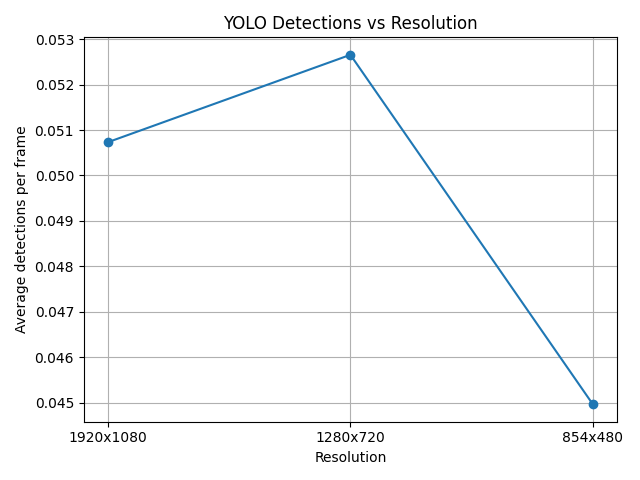
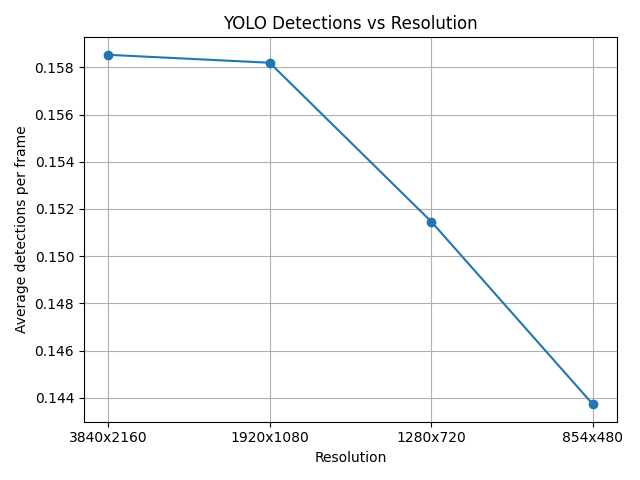
resolution_analysis_outputs

diff --git a/yolov5_object_detection_small/main.py b/yolov5_object_detection_small/main.py
@@ -29,12 +29,13 @@ def test_resolutions(video_path: str):
     """
     Test trained model on the same video at multiple resolutions and
     create summary plots.
-    Run with: python main.py --mode test [--video path/to/video]
+    Run with: python main.py --mode test
     """
     model = YOLO("runs/red_object_detect2/weights/best.pt")
 
     resolutions = [
-        (1920, 1080),   # Full HD
+        (3840, 2160), # 4K resolution
+        (1920, 1080), # Full HD
         (1280, 720),
         (854, 480),
     ]
@@ -145,7 +146,7 @@ if __name__ == "__main__":
     parser.add_argument(
         "--video",
         type=str,
-        default="C:/Users/Stewy/UAV_AI/videos/red_object_test1.mov",
+        default="C:/Users/Stewy/UAV_AI/videos/red_object_test2.mov",
         help="Path to input video for testing",
     )
     args = parser.parse_args()
